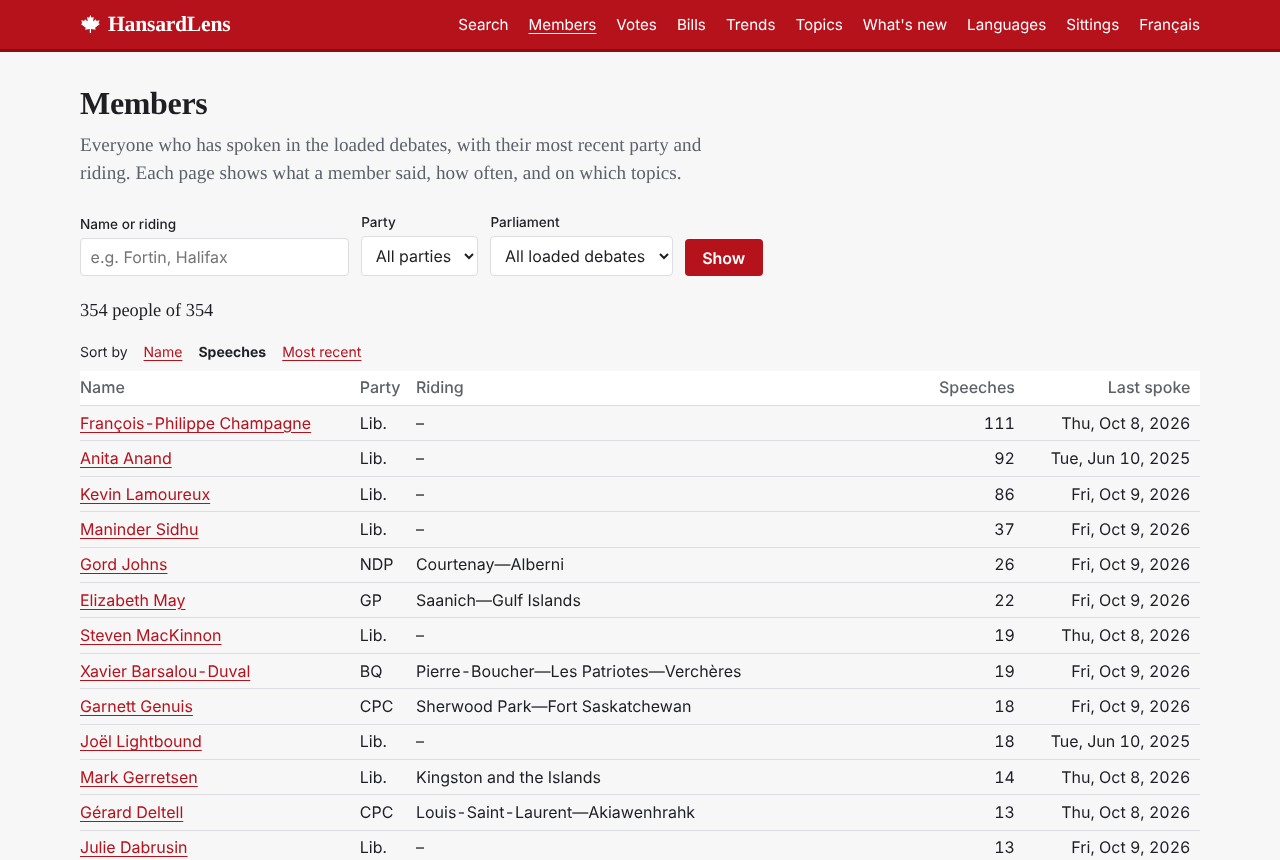
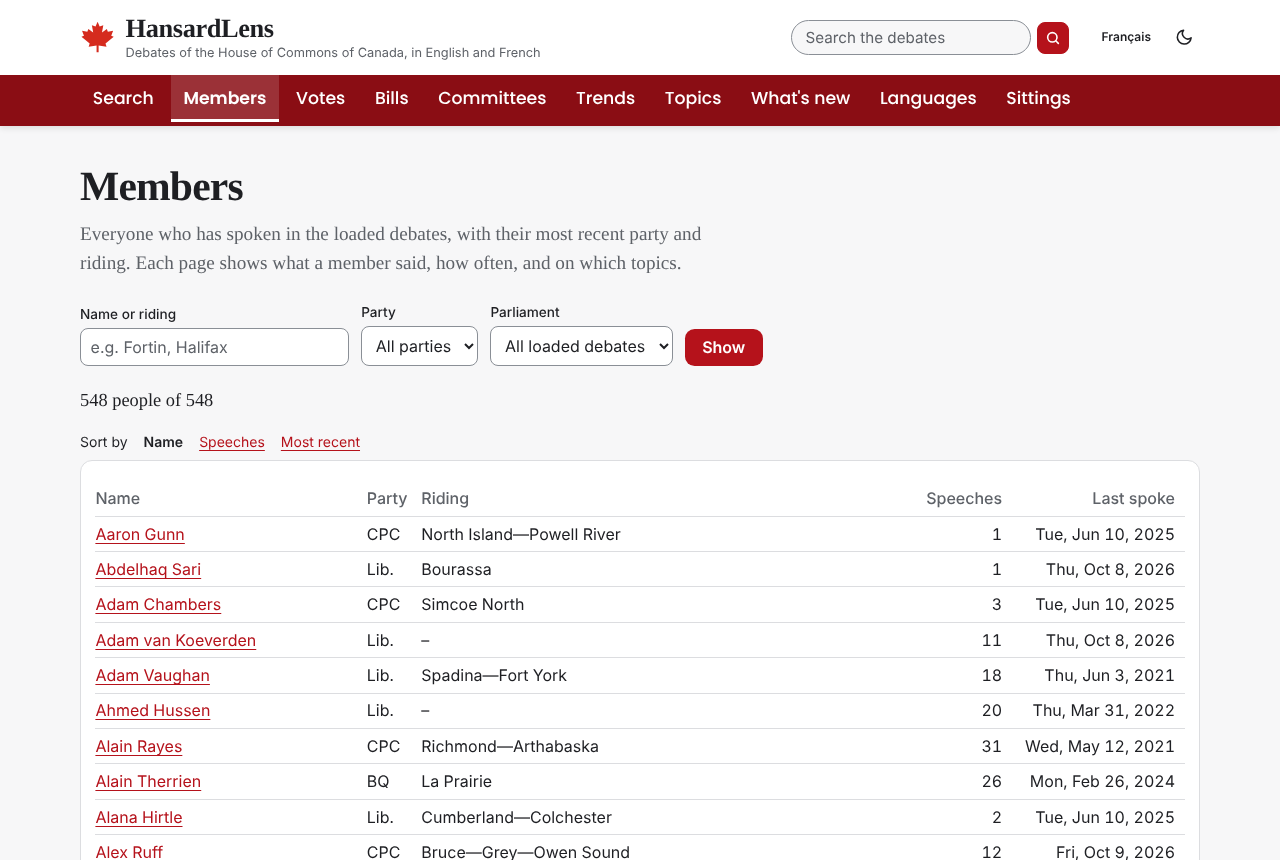
Retake screenshots and document the 1.13 redesign

diff --git a/CHANGELOG.md b/CHANGELOG.md
@@ -2,15 +2,23 @@
 
 ## 1.13.0 – 2026-10-20 (branch `tailwind`)
 
-- **Styles rebuilt on Tailwind CSS 4.3 and daisyUI 5.7**, keeping the same look: the
-  page components are themed Tailwind components, the header, buttons and menus use
-  daisyUI. The built stylesheet (45 KB) is committed, so running and deploying need no
-  Node.js; CI checks it matches its source.
-- **Dark theme:** follows the system setting; the moon button in the header switches and
-  remembers the choice in the browser. Every colour pair checked for WCAG 2.1 AA in both
-  themes; the axe-core audit now runs every page in both.
-- **Navigation:** fits on one line on desktop; on phones it folds into a "Menu" that
-  opens and closes with the keyboard.
+- **New look on Tailwind CSS 4.3 and daisyUI 5.7.** A two-level header: a white top row
+  with the maple leaf in the flag's red, the name and a tagline, a search box on every
+  page, and the language and theme switches; below it the sections as tabs on a dark red
+  band, in Poppins (served with the site, SIL Open Font License). Content sits in
+  rounded cards: search results and filters, tables, charts, figures, bar charts,
+  agendas, the side-by-side text of speeches and transcripts.
+- **Home page:** a large search panel with an English/French switch, headline figures
+  (sittings, speeches, recorded votes, people, committee meetings), an "Explore" grid
+  describing each section, and the latest sittings.
+- **Dark theme:** follows the system setting; the moon button switches and remembers
+  the choice in the browser.
+- **Phones and tablets:** below 1,200 px the sections fold into a "Menu" that opens
+  and closes with the keyboard.
+- **Accessibility:** every colour pair checked for WCAG 2.1 AA in both themes; the
+  axe-core audit runs all 31 pages at two widths in both themes, with no failures.
+- The built stylesheet is committed, so running and deploying need no Node.js; CI
+  checks it matches its source. README screenshots retaken.
 
 ## 1.12.0 – 2026-10-20
 

diff --git a/docs/ACCESSIBILITY.md b/docs/ACCESSIBILITY.md
@@ -44,7 +44,9 @@ After the fixes, axe-core reports no failures on any page at either width, in ei
 theme. The theme switch is a button with a constant name ("Dark theme") whose pressed
 state says which theme is on; without JavaScript it is hidden and the site follows the
 system setting. On phones the navigation folds into a "Menu" disclosure that opens and
-closes with the keyboard. The
+closes with the keyboard. The 1.13 redesign (white header with the maple leaf, section tabs on dark red, content in
+cards) was checked the same way: white tab labels on the dark red band are 9.8:1, the
+current tab 7.2:1, the tagline 5.6:1 or more, and the leaf (a graphic, 3:1 needed) 5.0:1. The
 committee pages added in version 1.9.0 use the same components and also report none. It flags
 the small axis numbers in charts for review because it cannot read the SVG background;
 they are dark grey on white, 6.1:1.
